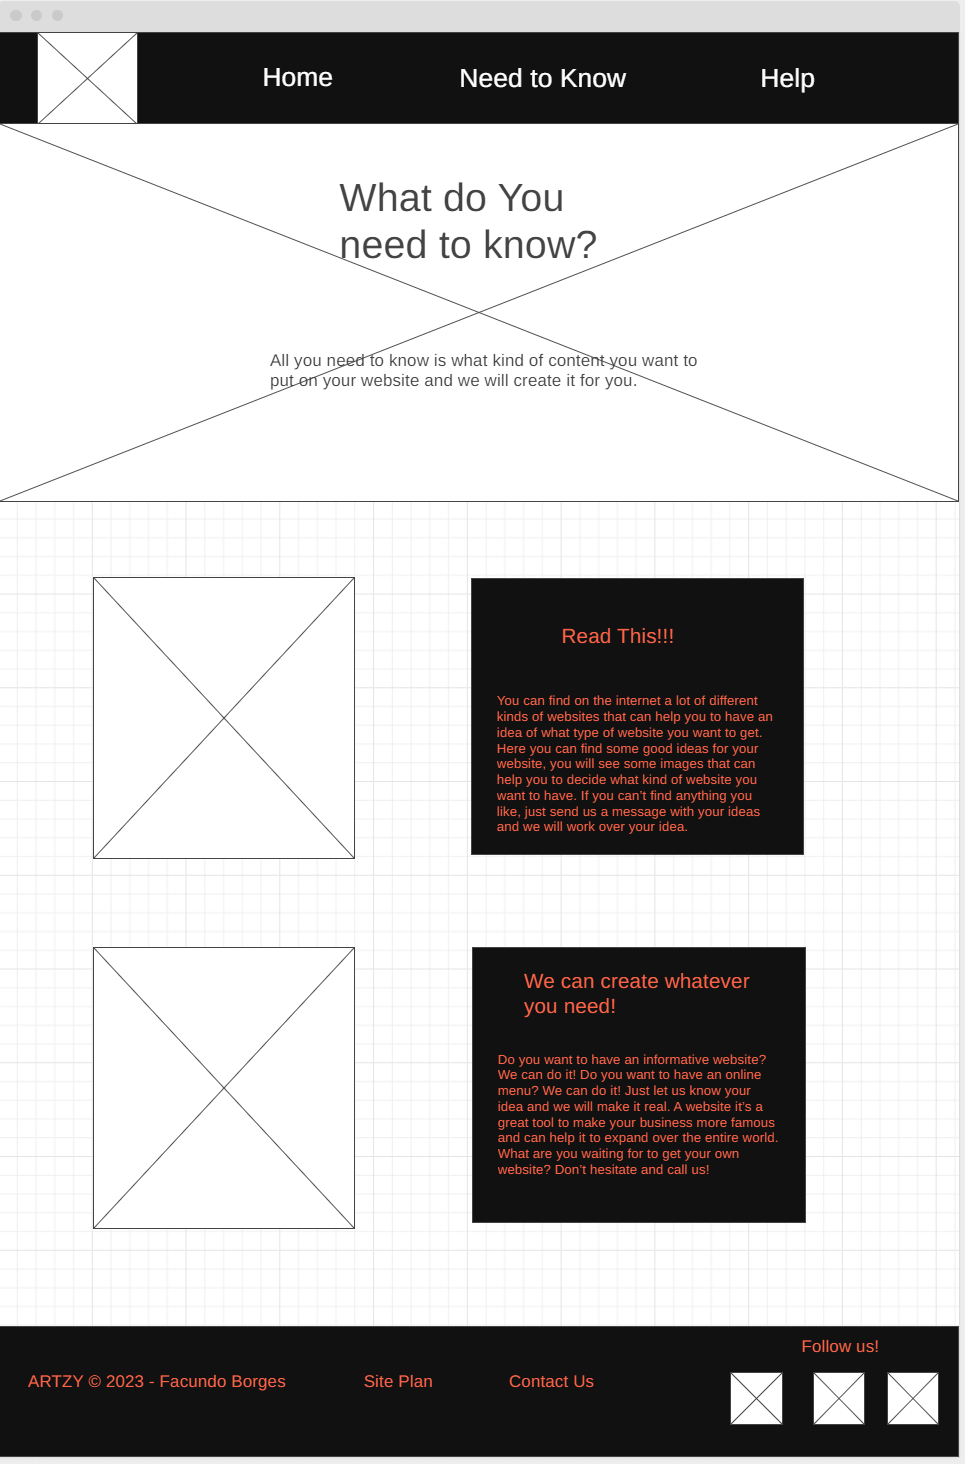
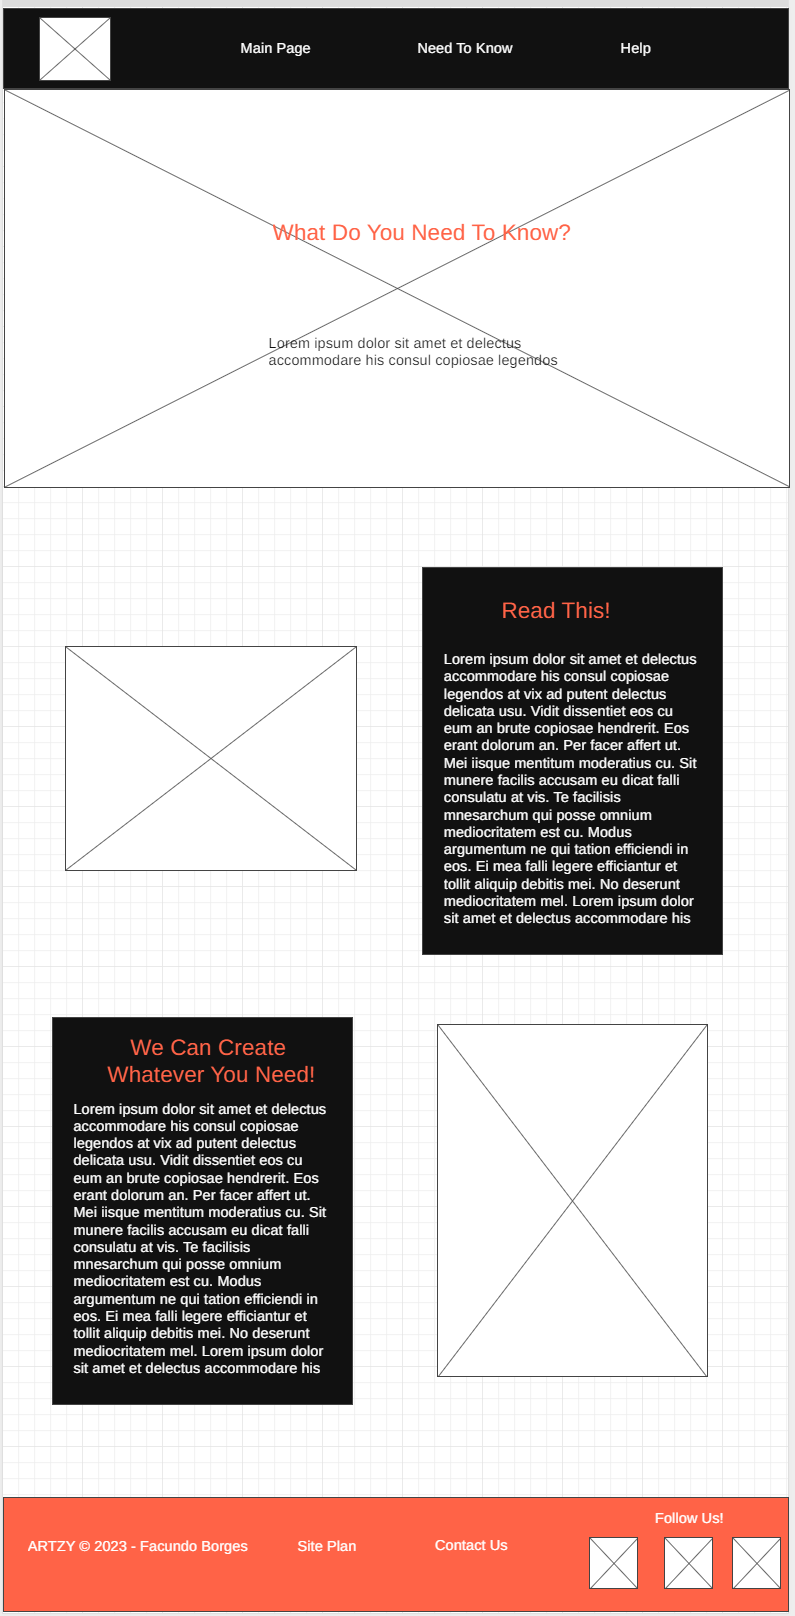
asdasdasd

diff --git a/artzy/site-plan.html b/artzy/site-plan.html
@@ -206,7 +206,7 @@ Robert Voldemort, 27 years old, Backend and Frontend Developer
       <p>         
         I will use some effects on the images to look better
       </p>
-      <img src="images/home1.PNG" alt="home page wireframe">
+      <img src="images/page1.PNG" alt="home page wireframe">
 
       <h3>Need to Know</h3>
       <p>         
